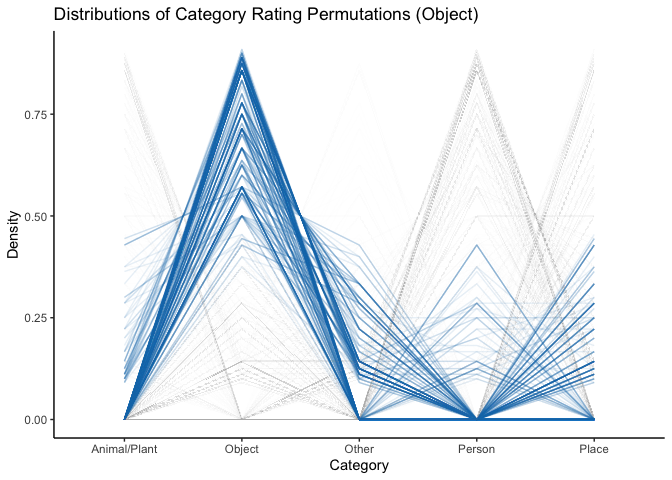
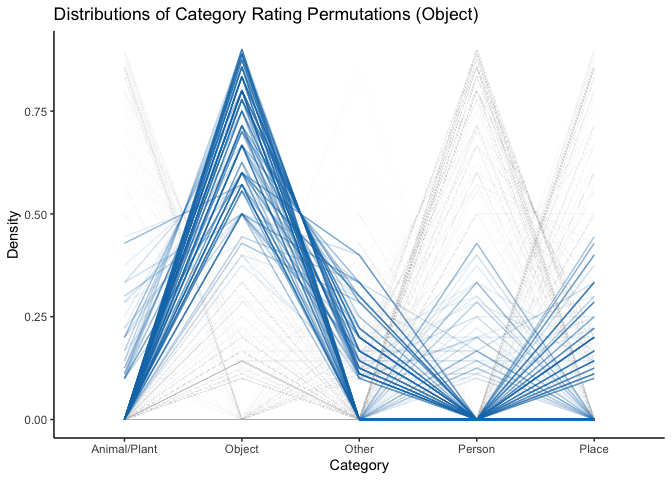
add master table and save categorizations to results

diff --git a/categorizations.md b/categorizations.md
@@ -17,7 +17,7 @@ Constants
 ---------
 
 ``` r
-VALIDATION_THRESHOLD = 3
+VALIDATION_THRESHOLD = 4
 
 # Colors for plotting
 COLORS <- hash()
@@ -96,12 +96,12 @@ knitr::kable(
 
 | image\_id                  |  Person|  Animal/Plant|  Object|  Place|  Other|  n\_ratings|  max\_rating|  rel\_max\_rating|  htg\_index|
 |:---------------------------|-------:|-------------:|-------:|------:|------:|-----------:|------------:|-----------------:|-----------:|
-| OASIS\_snake\_5.jpg        |       0|             7|       0|      0|      0|           7|            7|              1.00|        0.00|
-| OASIS\_stingray\_3.jpg     |       0|             7|       0|      0|      0|           7|            7|              1.00|        0.00|
-| OASIS\_thunderstorm\_9.jpg |       0|             0|       2|      4|      1|           7|            4|              0.57|        0.59|
-| OASIS\_tiger\_2.jpg        |       0|             6|       1|      0|      0|           7|            6|              0.86|        0.26|
-| OASIS\_toast\_1.jpg        |       0|             0|       7|      0|      0|           7|            7|              1.00|        0.00|
-| OASIS\_wall\_4.jpg         |       0|             0|       1|      4|      2|           7|            4|              0.57|        0.59|
+| OASIS\_snake\_5.jpg        |       0|             6|       0|      0|      0|           6|            6|              1.00|        0.00|
+| OASIS\_stingray\_3.jpg     |       0|             6|       0|      0|      0|           6|            6|              1.00|        0.00|
+| OASIS\_thunderstorm\_9.jpg |       0|             0|       1|      4|      1|           6|            4|              0.67|        0.56|
+| OASIS\_tiger\_2.jpg        |       0|             5|       1|      0|      0|           6|            5|              0.83|        0.31|
+| OASIS\_toast\_1.jpg        |       0|             0|       6|      0|      0|           6|            6|              1.00|        0.00|
+| OASIS\_wall\_4.jpg         |       0|             0|       1|      3|      2|           6|            3|              0.50|        0.67|
 
 Threshold-based Categorization
 ------------------------------
@@ -142,13 +142,13 @@ character and list of character types respectively.
 category_df <- counted_df %>%
   dplyr::mutate(
     
-    category_max = dplyr::select(., category_names) %>%
+    category_max = dplyr::select(., all_of(category_names)) %>%
       purrr::pmap_chr(
         ., 
         ~ choose_category_max_threshold(c(...))
       ),
     
-    category_ties = dplyr::select(., category_names) %>%
+    category_ties = dplyr::select(., all_of(category_names)) %>%
       purrr::pmap_chr(
         .,
         ~ choose_category_ties_threshold(c(...))
@@ -156,14 +156,7 @@ category_df <- counted_df %>%
     
   ) %>%
   dplyr::select(image_id, category_max, category_ties)
-```
 
-    ## Note: Using an external vector in selections is ambiguous.
-    ## ℹ Use `all_of(category_names)` instead of `category_names` to silence this message.
-    ## ℹ See <https://tidyselect.r-lib.org/reference/faq-external-vector.html>.
-    ## This message is displayed once per session.
-
-``` r
 knitr::kable(
   head(category_df)
 )
@@ -224,7 +217,14 @@ Normalization-based Categorization
 normalized_sum_df <- counted_df %>%
   dplyr::mutate_at(vars(category_names), ~ . / n_ratings) %>%
   dplyr::select(-c(n_ratings, max_rating))
+```
 
+    ## Note: Using an external vector in selections is ambiguous.
+    ## ℹ Use `all_of(category_names)` instead of `category_names` to silence this message.
+    ## ℹ See <https://tidyselect.r-lib.org/reference/faq-external-vector.html>.
+    ## This message is displayed once per session.
+
+``` r
 knitr::kable(
   head(normalized_sum_df)
 )
@@ -342,12 +342,24 @@ knitr::kable(
 
 |  Animal/Plant|  Object|  Other|  Person|  Place| image\_id      |  htg\_index| category\_max | category\_ties |
 |-------------:|-------:|------:|-------:|------:|:---------------|-----------:|:--------------|:---------------|
-|             0|       0|   0.00|    0.50|   0.50| IAPS\_2217.jpg |        0.56| Other         | Person & Place |
-|             0|       0|   0.00|    0.88|   0.12| IAPS\_2410.jpg |        0.23| Person        | Person         |
-|             0|       0|   0.12|    0.88|   0.00| IAPS\_2681.jpg |        0.23| Person        | Person         |
-|             0|       0|   0.12|    0.88|   0.00| IAPS\_3062.jpg |        0.23| Person        | Person         |
-|             0|       0|   0.00|    0.50|   0.50| IAPS\_5831.jpg |        0.56| Other         | Person & Place |
-|             0|       0|   0.38|    0.00|   0.62| IAPS\_5940.jpg |        0.45| Place         | Place          |
+|             0|       0|   0.00|    0.57|   0.43| IAPS\_2217.jpg |        0.51| Person        | Person         |
+|             0|       0|   0.00|    0.86|   0.14| IAPS\_2410.jpg |        0.26| Person        | Person         |
+|             0|       0|   0.14|    0.86|   0.00| IAPS\_2681.jpg |        0.26| Person        | Person         |
+|             0|       0|   0.14|    0.86|   0.00| IAPS\_3062.jpg |        0.26| Person        | Person         |
+|             0|       0|   0.00|    0.57|   0.43| IAPS\_5831.jpg |        0.51| Person        | Person         |
+|             0|       0|   0.43|    0.00|   0.57| IAPS\_5940.jpg |        0.51| Place         | Place          |
+
+### Save categorizations to file
+
+``` r
+combined_categorization_df %>%
+  dplyr::relocate(image_id) %>%
+  readr::write_tsv(
+    file.path(datapath, "results", "categorizations.tsv"),
+    append = FALSE,
+    col_names = TRUE
+  )
+```
 
 ### Plot Categorizations by Parallel Coordinates
 

diff --git a/master_table.md b/master_table.md
@@ -1,0 +1,93 @@
+CSN Image Categorization Master Results Table
+=============================================
+
+Load packages
+-------------
+
+``` r
+library(dplyr)
+library(purrr)
+library(tidyr)
+library(stringr)
+library(ggplot2)
+library(hash)
+library(scales)
+library(readr)
+```
+
+Set datapath and load `shlab.imgct`
+-----------------------------------
+
+Begin by setting the working directory and important top-level paths to
+data and loading necessary packages.
+
+-   NOTE: This will be changed to dynamically account for the package
+    `shlab.imgct` via its GitHub instance later. For now, it is using
+    development loading.
+
+``` r
+# Set the working directory to be part of S Drive (may make dynamic later?)
+# Whilst not dynamic, change for own session if mount point is not equivalent on
+# local machine
+shared_dir <- "~/Projects/shlab/mounts/imgct"
+package_dir <- "~/Projects/shlab"
+
+datapath <- file.path(shared_dir, "csn_images")
+imgct_package_path <- file.path(package_dir, "shlab.imgct")
+
+# Make sure that devtools, tidyverse are installed before this call
+devtools::load_all(imgct_package_path)
+```
+
+``` r
+results_path <- file.path(datapath, "results")
+
+categorizations_df <- readr::read_tsv(file.path(results_path, "categorizations.tsv"))
+```
+
+    ## Parsed with column specification:
+    ## cols(
+    ##   image_id = col_character(),
+    ##   `Animal/Plant` = col_double(),
+    ##   Object = col_double(),
+    ##   Other = col_double(),
+    ##   Person = col_double(),
+    ##   Place = col_double(),
+    ##   htg_index = col_double(),
+    ##   category_max = col_character(),
+    ##   category_ties = col_character()
+    ## )
+
+``` r
+emotion_ratings_df <- readr::read_tsv(file.path(results_path, "general_emotion_ratings.tsv"))
+```
+
+    ## Parsed with column specification:
+    ## cols(
+    ##   db_id = col_character(),
+    ##   image_id = col_character(),
+    ##   arousal = col_double(),
+    ##   valence = col_double(),
+    ##   erotic = col_double()
+    ## )
+
+``` r
+master_df <- dplyr::left_join(categorizations_df, emotion_ratings_df, by = c("image_id"))
+
+master_df %>%
+  readr::write_tsv(file.path(results_path, "master_table.tsv"),
+                  append = FALSE,
+                  col_names = TRUE)
+
+knitr::kable(
+  head(master_df, 5)
+)
+```
+
+| image\_id      |  Animal/Plant|  Object|      Other|     Person|      Place|  htg\_index| category\_max | category\_ties | db\_id |  arousal|  valence|  erotic|
+|:---------------|-------------:|-------:|----------:|----------:|----------:|-----------:|:--------------|:---------------|:-------|--------:|--------:|-------:|
+| IAPS\_2217.jpg |             0|       0|  0.0000000|  0.5714286|  0.4285714|       0.510| Person        | Person         | IAPS   |  -0.2300|   0.3100|       0|
+| IAPS\_2410.jpg |             0|       0|  0.0000000|  0.8571429|  0.1428571|       0.265| Person        | Person         | IAPS   |  -0.2175|  -0.0950|       0|
+| IAPS\_2681.jpg |             0|       0|  0.1428571|  0.8571429|  0.0000000|       0.265| Person        | Person         | IAPS   |  -0.0075|  -0.2400|       0|
+| IAPS\_3062.jpg |             0|       0|  0.1428571|  0.8571429|  0.0000000|       0.265| Person        | Person         | IAPS   |   0.1950|  -0.7825|       0|
+| IAPS\_5831.jpg |             0|       0|  0.0000000|  0.5714286|  0.4285714|       0.510| Person        | Person         | IAPS   |  -0.1425|   0.6575|       0|

diff --git a/README.md b/README.md
@@ -35,6 +35,7 @@ Within, six main subdirectories with relevant data types will exist.
 │   └── qualtrics.tsv
 └── results
     ├── all_participant_validations.tsv
+    ├── categorizations.tsv
     ├── categorized_0_valid.tsv
     .   .
     .   . 
